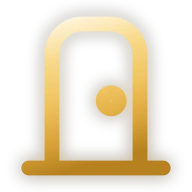
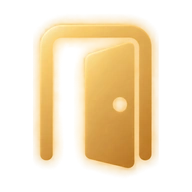
Üretilen navbar ikonlarını kes ve yerleştir
Tek görselde yan yana gelen üç ikon kesilip ev.webp, kapi.webp ve
kisi.webp olarak kondu; yer tutucu olarak bastığım vektör sürümlerin
yerini aldılar.

Kesme betiği belgeler/amblem_kes.py olarak depoda. Eşit üçe bölmeye
güvenmiyor, saydam kanaldaki sütun doluluğuna bakıp kümeleri kendi
buluyor. Üretilen görselde ikonların çevresinde kırmızı ve sarı serpinti
vardı; en büyük parçanın %2'sinden küçük lekeler siliniyor ve yarı saydam
kenar bir tık kırpılıp renk saçağı inceltiliyor. Her ikon kendi sınırına
göre kesilip kareye ortalanıyor, %8 kenar payıyla 192x192 yazılıyor.

Claude-Session: https://claude.ai/code/session_01XgkHAiLb9UpYGiqVWQE1GL

diff --git a/belgeler/amblem_kes.py b/belgeler/amblem_kes.py
@@ -1,0 +1,68 @@
+import sys
+import numpy as np
+from PIL import Image
+from scipy import ndimage
+
+ESIK = 40
+ASGARI_PAY = 0.02
+KENAR_PAYI = 0.08
+CIKTI_BOYU = 192
+
+
+def temizle(im: Image.Image) -> Image.Image:
+    a = np.array(im.split()[3])
+    maske = a > ESIK
+    etiket, adet = ndimage.label(maske)
+    if adet == 0:
+        return im
+    boyutlar = ndimage.sum(maske, etiket, range(1, adet + 1))
+    esik = boyutlar.max() * ASGARI_PAY
+    atilacak = np.isin(etiket, [i + 1 for i, b in enumerate(boyutlar) if b < esik])
+    veri = np.array(im)
+    veri[atilacak] = 0
+    yumusak = a.astype(np.int16) - 12
+    veri[..., 3] = np.clip(np.where(atilacak, 0, yumusak), 0, 255).astype(np.uint8)
+    return Image.fromarray(veri, "RGBA")
+
+
+def sutun_gruplari(a: np.ndarray, bosluk: int = 40) -> list[tuple[int, int]]:
+    dolu = (a > ESIK).any(axis=0)
+    gruplar, bas = [], None
+    bos = 0
+    for x, d in enumerate(dolu):
+        if d:
+            if bas is None:
+                bas = x
+            bos = 0
+        elif bas is not None:
+            bos += 1
+            if bos >= bosluk:
+                gruplar.append((bas, x - bos))
+                bas, bos = None, 0
+    if bas is not None:
+        gruplar.append((bas, len(dolu) - 1))
+    return gruplar
+
+
+def kare_yap(im: Image.Image) -> Image.Image:
+    kutu = im.getbbox()
+    im = im.crop(kutu)
+    kenar = int(max(im.size) * (1 + KENAR_PAYI * 2))
+    tuval = Image.new("RGBA", (kenar, kenar), (0, 0, 0, 0))
+    tuval.alpha_composite(im, ((kenar - im.size[0]) // 2, (kenar - im.size[1]) // 2))
+    return tuval.resize((CIKTI_BOYU, CIKTI_BOYU), Image.LANCZOS)
+
+
+def main(kaynak: str, adlar: list[str], klasor: str) -> None:
+    im = temizle(Image.open(kaynak).convert("RGBA"))
+    gruplar = sutun_gruplari(np.array(im.split()[3]))
+    if len(gruplar) != len(adlar):
+        raise SystemExit(f"{len(adlar)} ikon bekleniyordu, {len(gruplar)} küme bulundu")
+    for (x0, x1), ad in zip(gruplar, adlar):
+        parca = kare_yap(im.crop((x0, 0, x1 + 1, im.size[1])))
+        parca.save(f"{klasor}/{ad}.webp", "WEBP", quality=95, method=6)
+        print(ad, parca.size)
+
+
+if __name__ == "__main__":
+    main(sys.argv[1], sys.argv[2].split(","), sys.argv[3])

diff --git a/belgeler/NAVBAR_IKON_PROMPTLARI.md b/belgeler/NAVBAR_IKON_PROMPTLARI.md
@@ -61,7 +61,17 @@ etme, kesince kenarlarda beyaz hâle kalıyor.
 
 ## Görsel geldiğinde
 
-Üç kareye bölünüp `ev.webp`, `kapi.webp`, `kisi.webp` olarak kaydedilir,
-pasif hâlleri de aktiften türetilir. Kesme ve dönüştürme
-`belgeler/amblem_uret.py` yanında yapılır.
+```bash
+python3 belgeler/amblem_kes.py <gorsel.png> "ev,kapi,kisi" assets/amblem
+```
+
+Betik saydam kanala bakıp kümeleri kendi buluyor, eşit üçe bölmeye
+güvenmiyor. Yaptıkları: eşiğin altındaki tozu ve en büyük parçanın
+%2'sinden küçük lekeleri siliyor (üretilen görselde ikonların çevresinde
+kırmızı ve sarı serpintiler vardı), kalan yarı saydam kenardan bir tık
+kırpıp renk saçağını inceltiyor, her ikonu kendi sınırına göre kesip
+kareye ortalıyor, %8 kenar payı bırakıp 192×192 webp yazıyor.
+
+Pasif hâller dosya olarak üretilmiyor; `AltinAmblem` sönük istendiğinde
+aynı görseli düşük saydamlıkla çiziyor.
 
